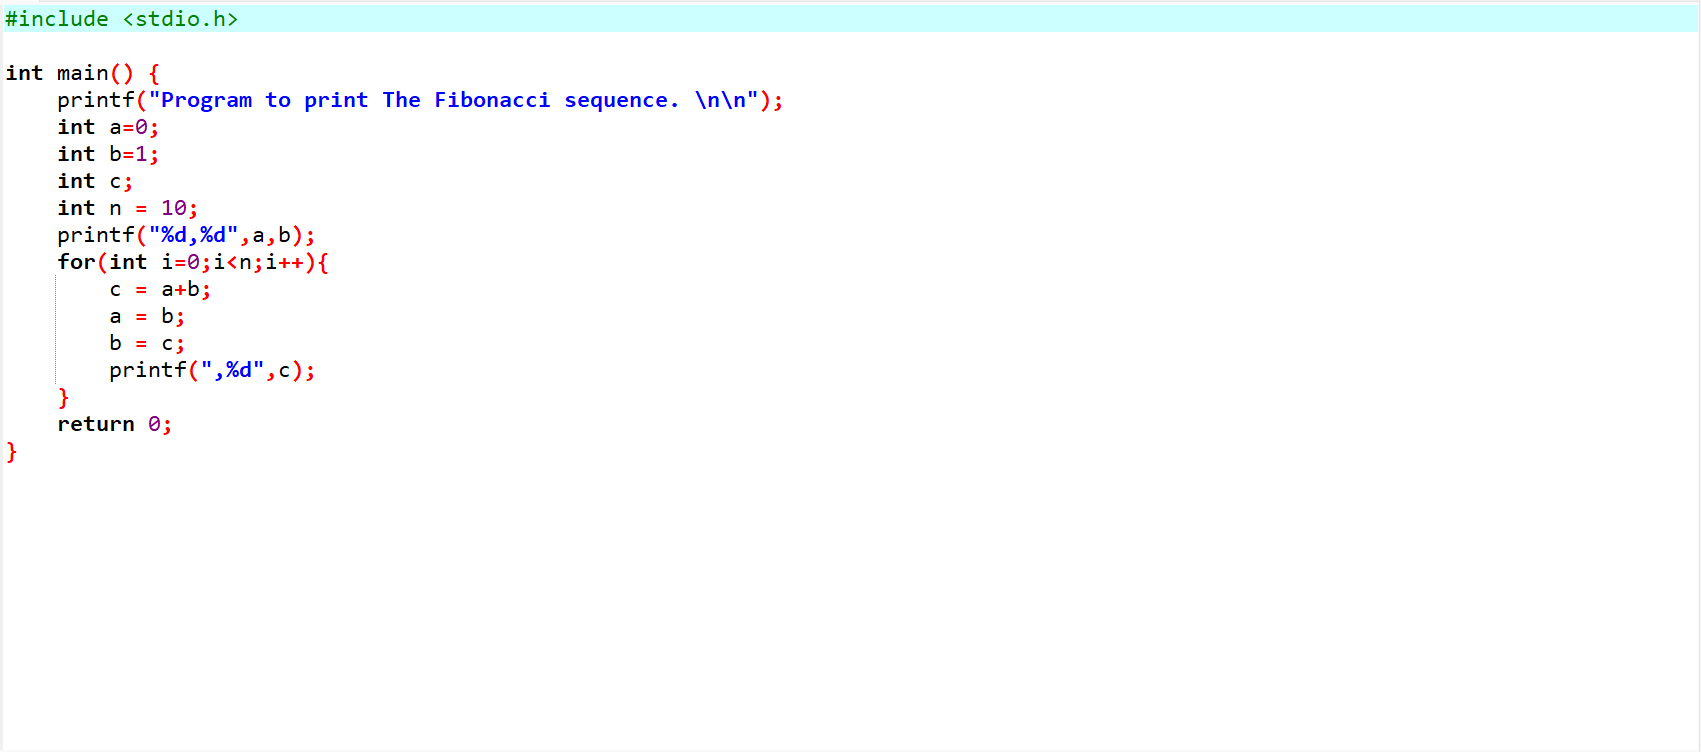
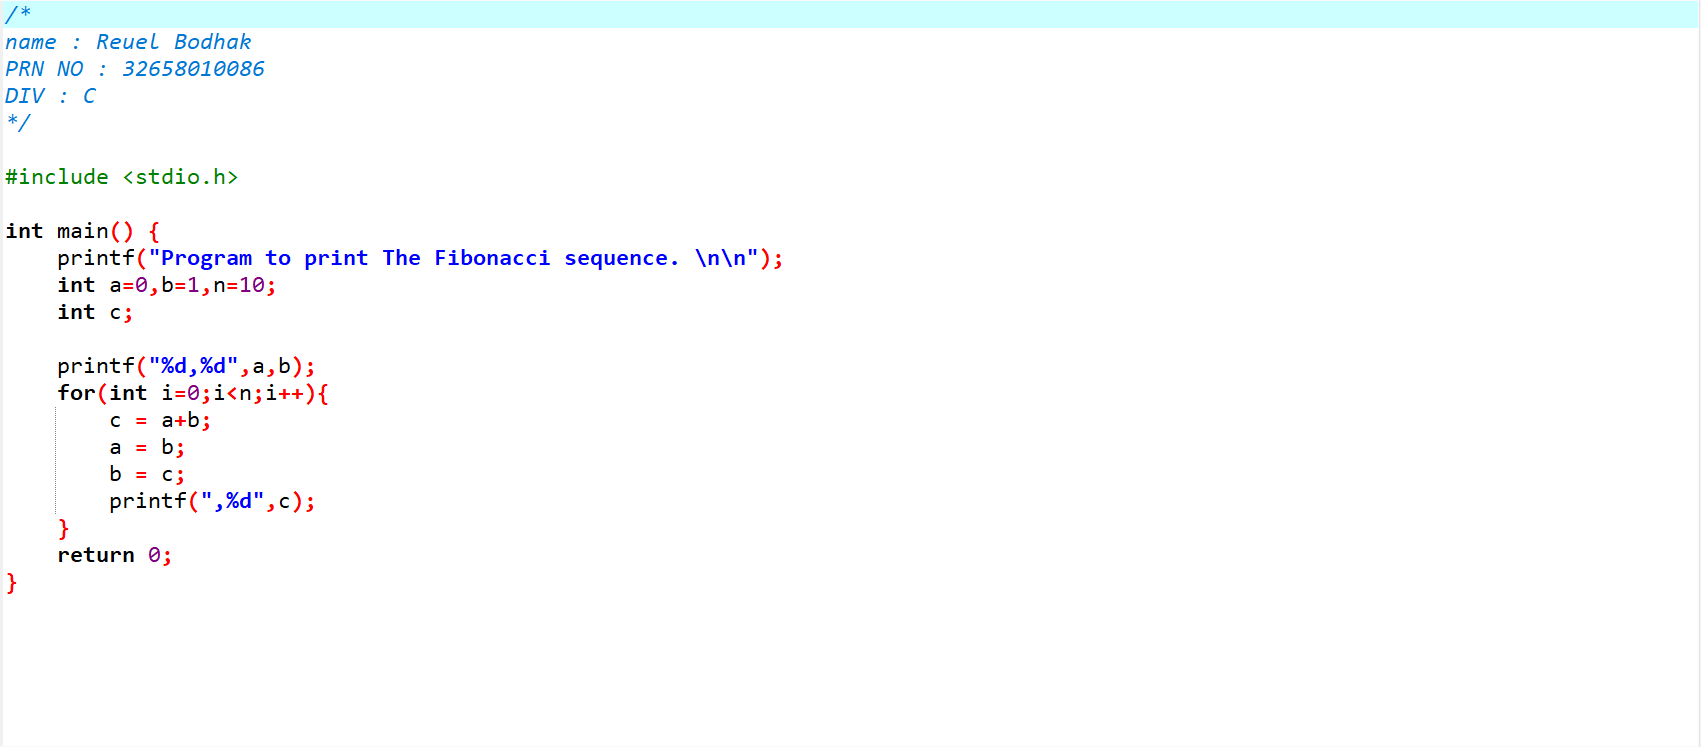
added details prn no name and div in program file

Changed region(s): [[0.0, 0.0, 0.9971, 0.6774], [0.0312, 0.739, 0.0935, 0.7697]]

diff --git a/fibbonacci/fibo_series.cpp b/fibbonacci/fibo_series.cpp
@@ -1,3 +1,9 @@
+/*
+name : Reuel Bodhak
+PRN NO : 32658010086
+DIV : C
+*/
+
 #include <stdio.h>
 
 int main() {

diff --git a/min_max/min_max.cpp b/min_max/min_max.cpp
@@ -1,3 +1,8 @@
+/*
+name : Reuel Bodhak
+PRN NO : 32658010086
+DIV : C
+*/
 
 #include <stdio.h>
 
